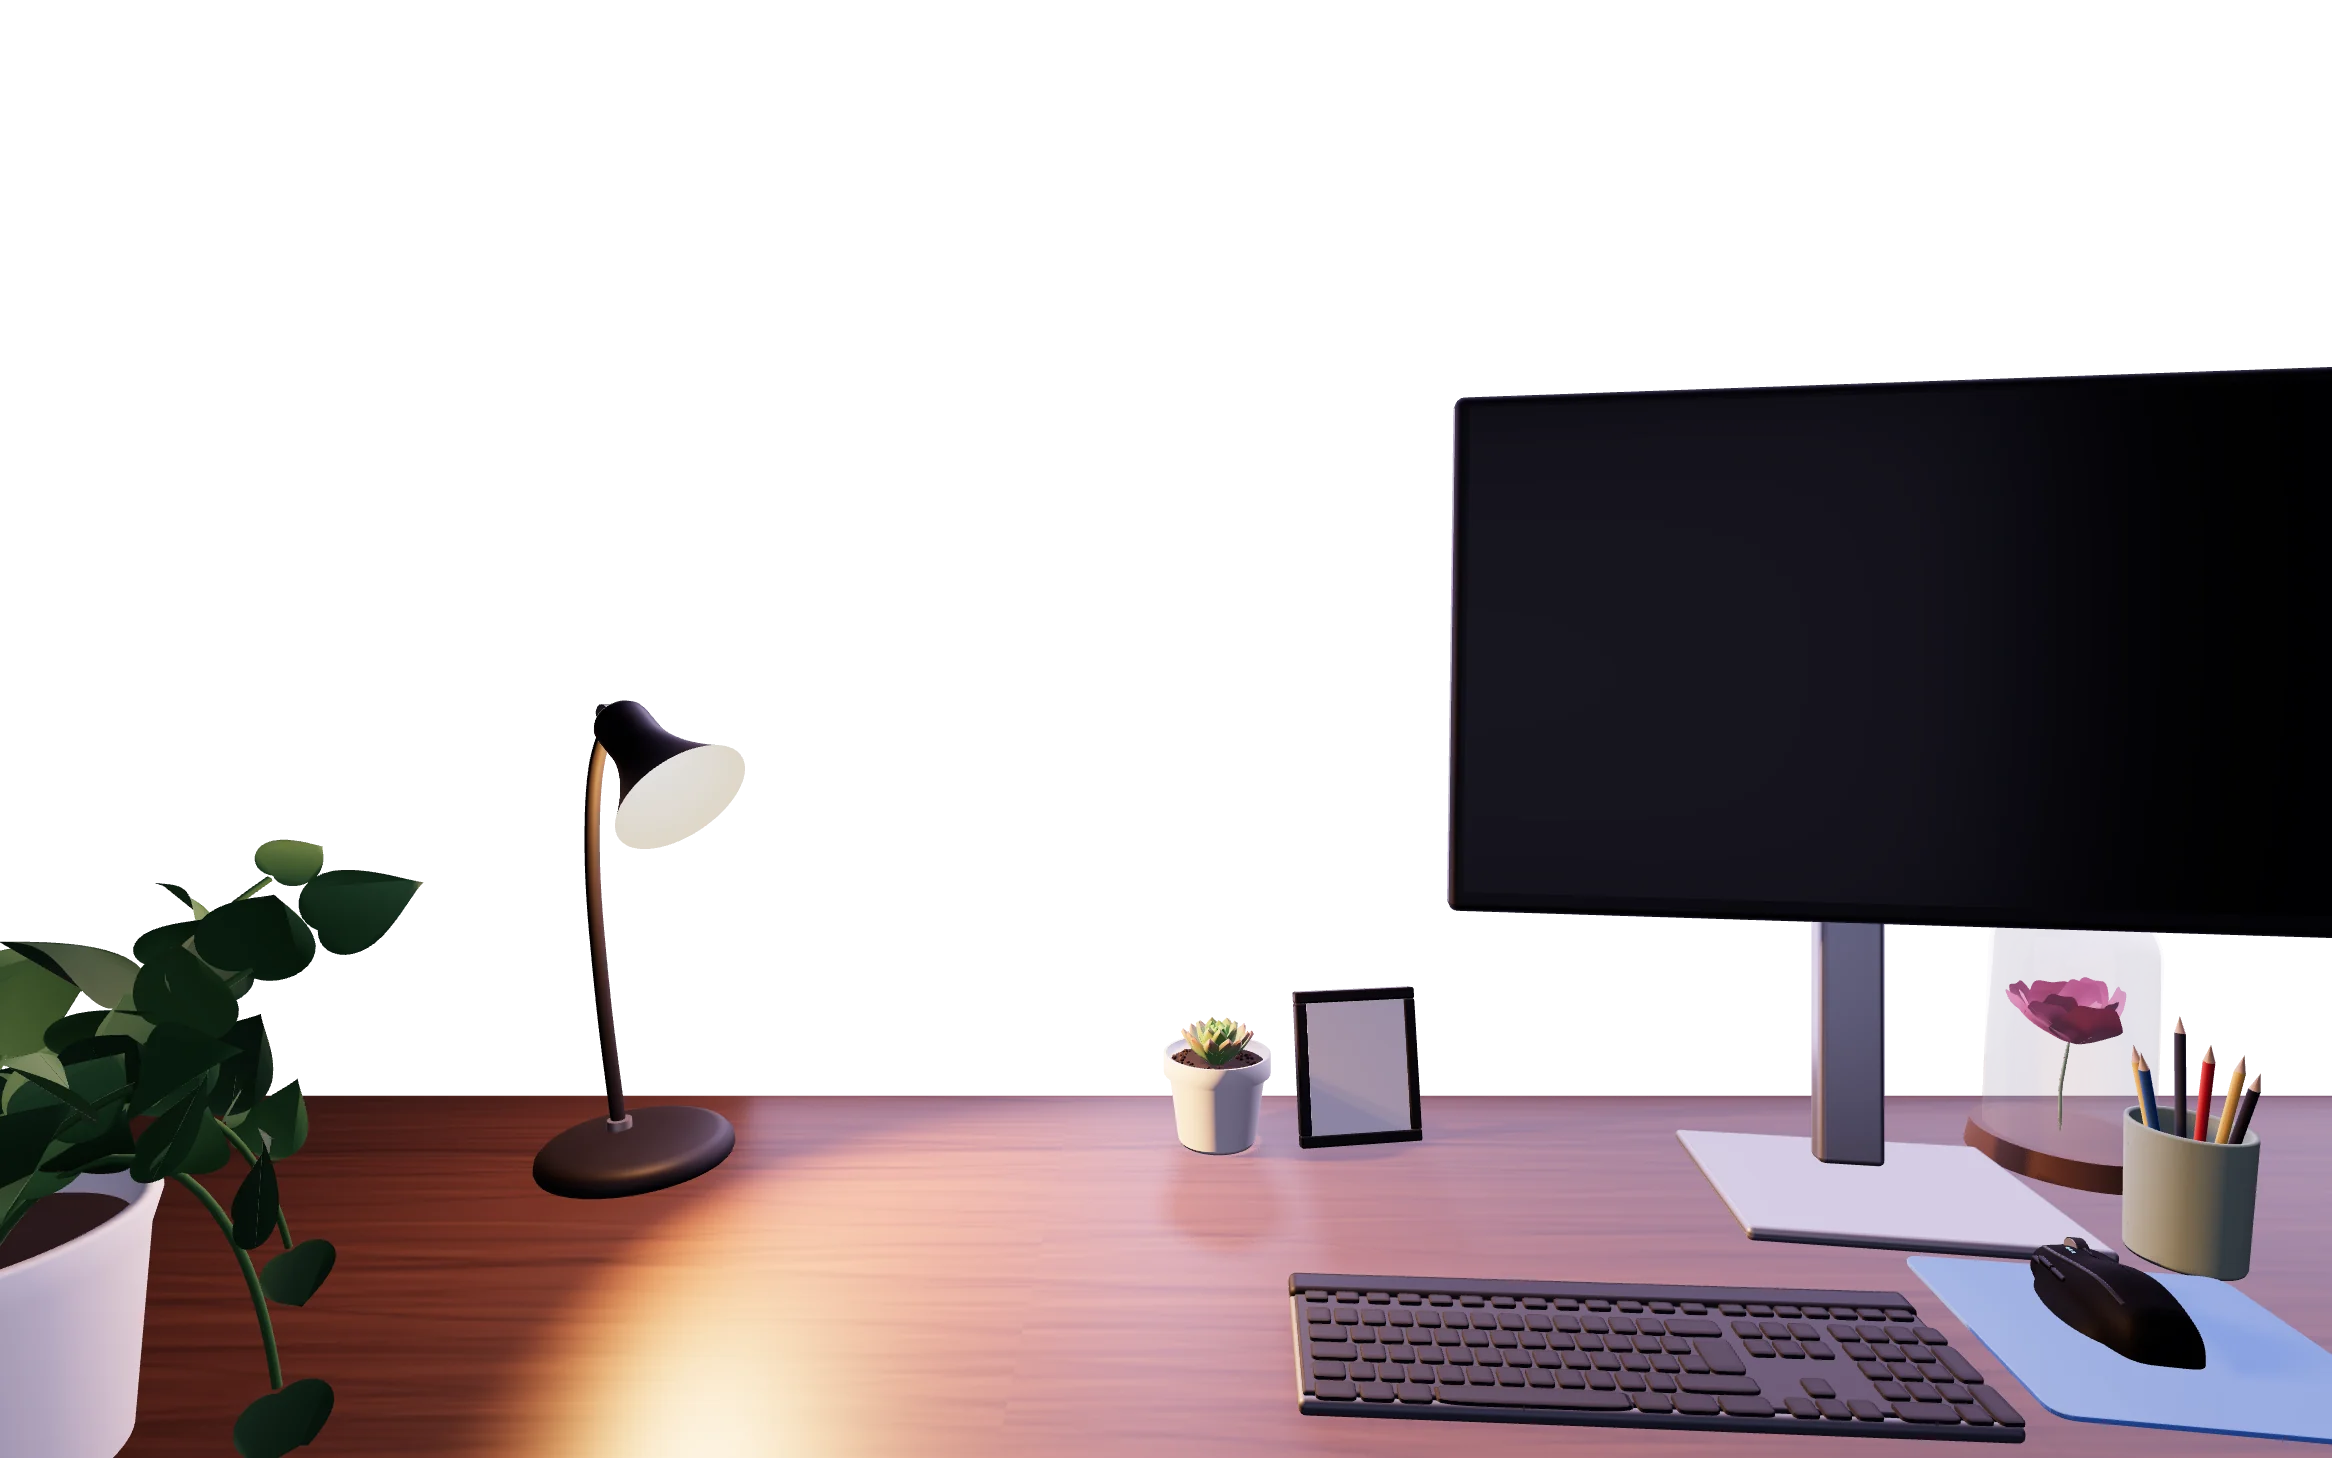
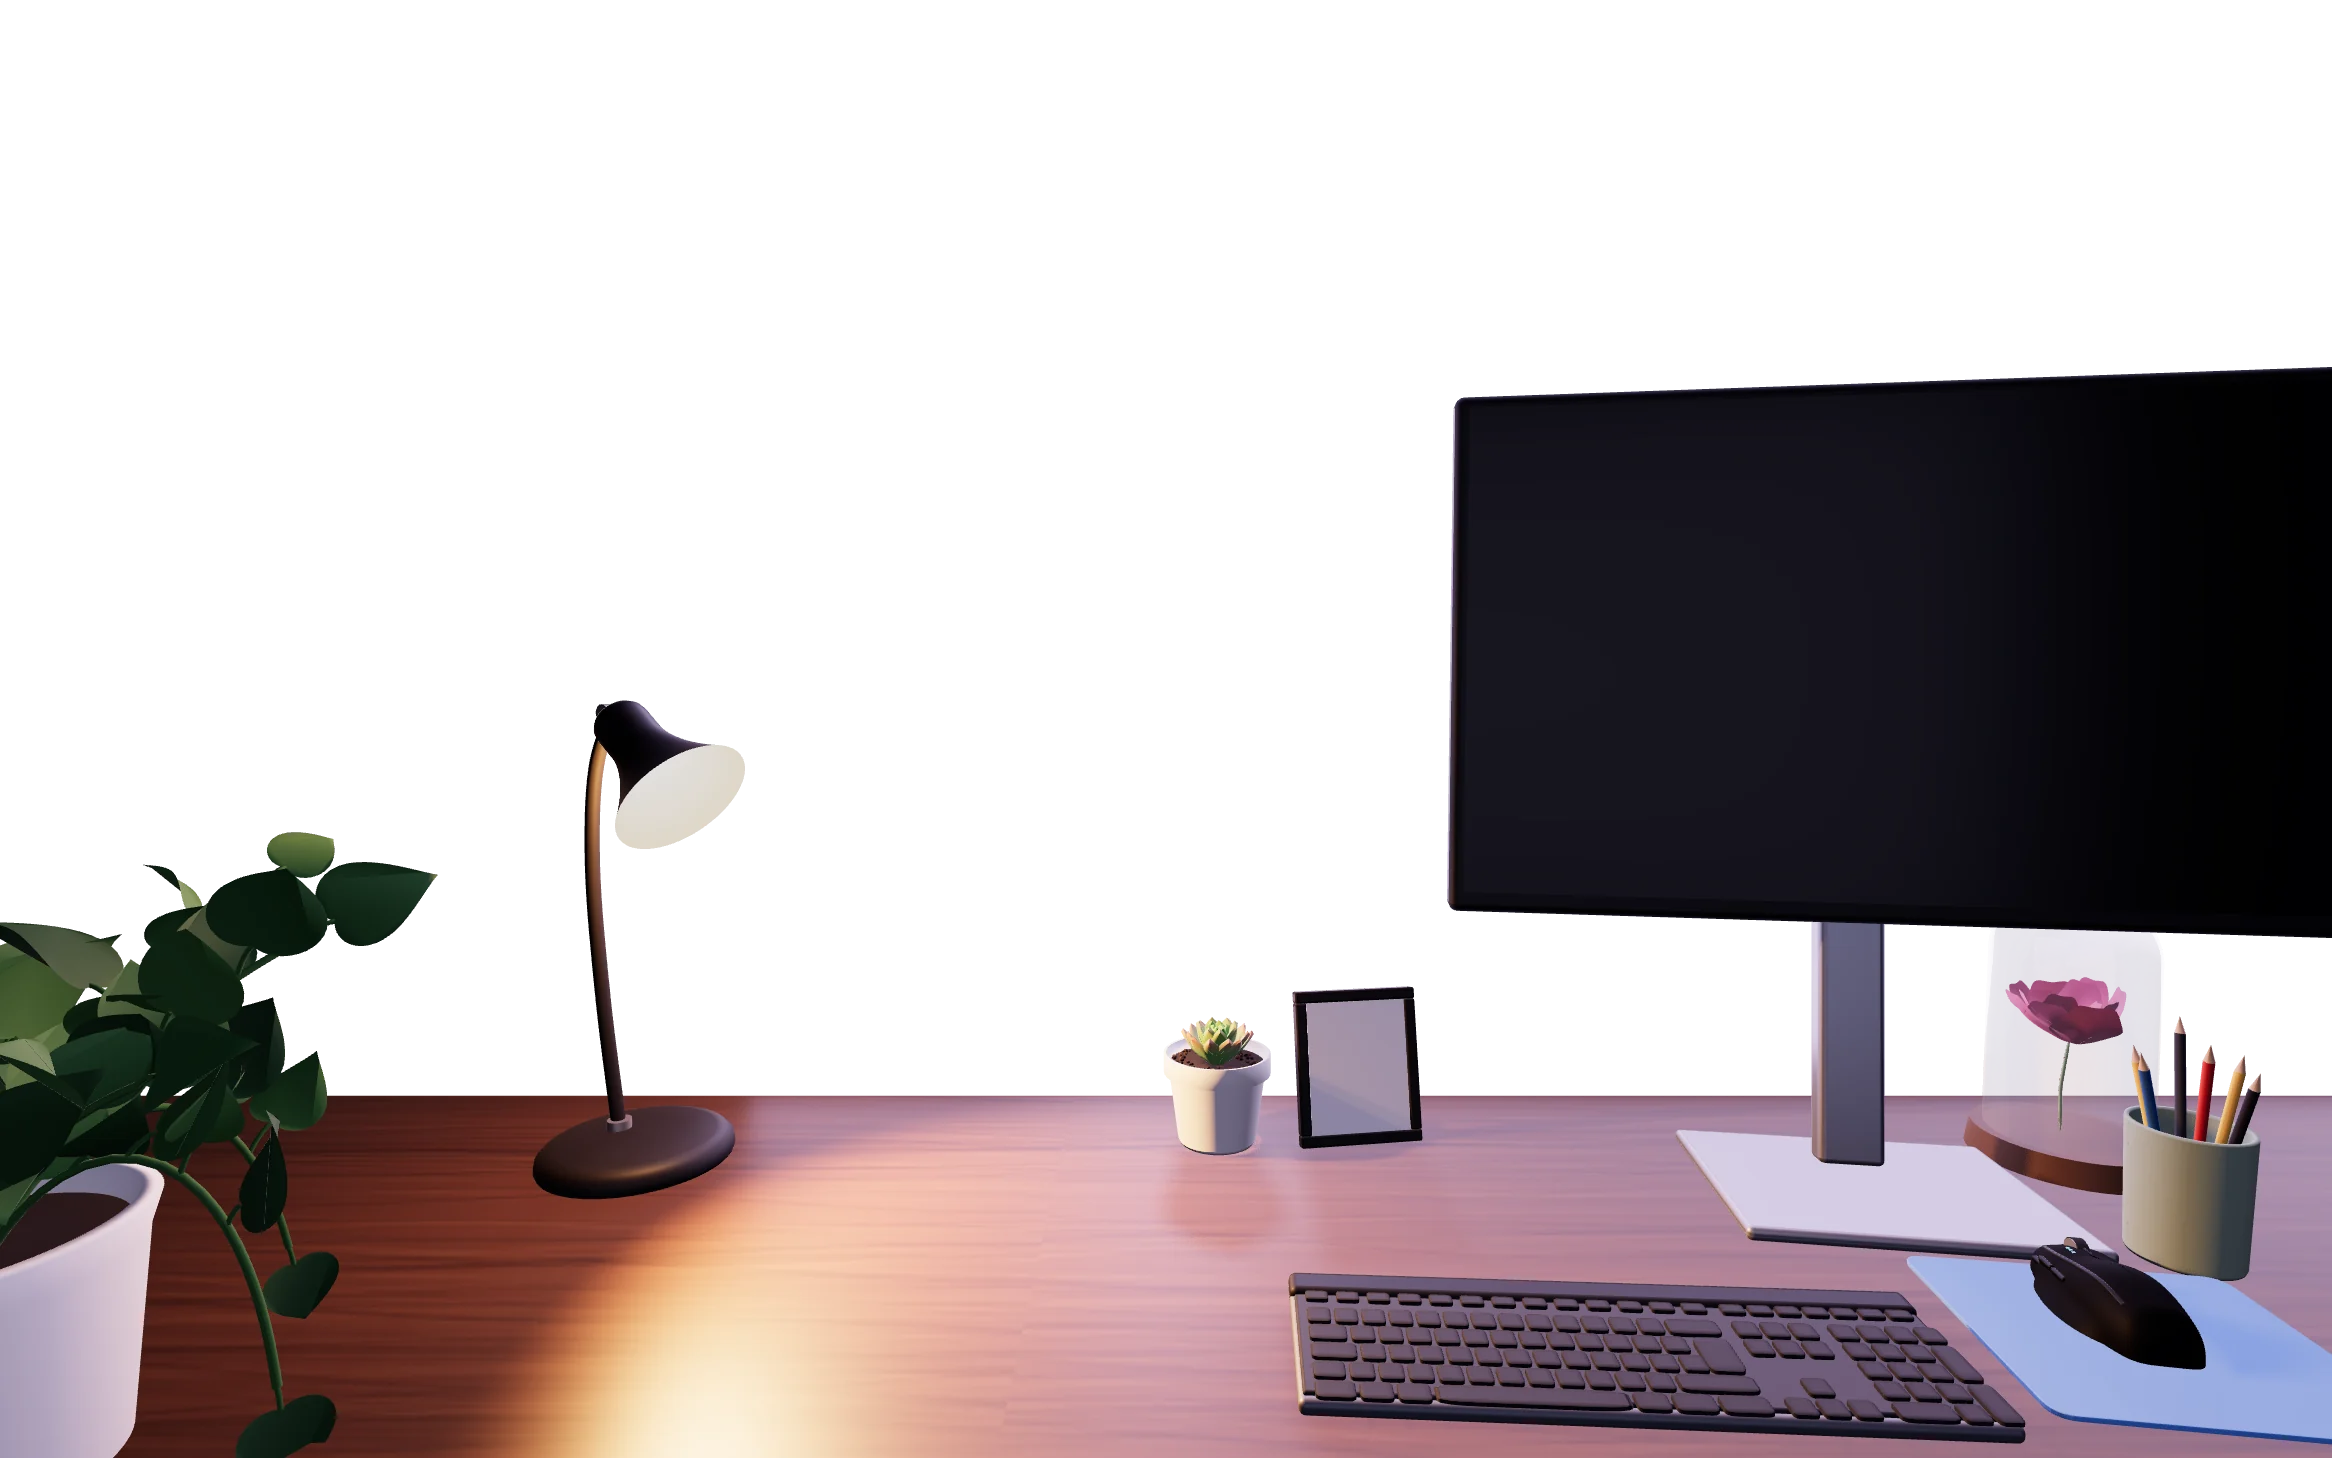
🐛 fix(office): hang the plant's leaves on short stalks so they meet their stems

Changed region(s): [[0.0, 0.5556, 0.1852, 0.8951], [0.0926, 0.9259, 0.1544, 0.9877]]

diff --git a/src/scene/office/objects.ts b/src/scene/office/objects.ts
@@ -541,10 +541,27 @@ function buildPlant(): Group {
       }
     }
     if (!tipLeaf) continue;
+    // Each leaf hangs from the stem on a short stalk, bent outward, from the stem to the notch at its base: laid
+    // straight on the stem, a leaf turned away showed no join and seemed to float.
+    const stalk = (from: Vector3, leaf: Mesh, kind: number): void => {
+      const [len] = leafSizes[kind] ?? [0, 0];
+      leaf.updateMatrix();
+      const base = v3(0, len * 0.06, len * 0.025).applyMatrix4(leaf.matrix);
+      const mid = from
+        .clone()
+        .lerp(base, 0.5)
+        .addScaledVector(v3(0, 1, 0), base.distanceTo(from) * 0.25);
+      g.add(new Mesh(new TubeGeometry(new QuadraticBezierCurve3(from, mid, base), 6, 0.0016, 5, false), stemMat));
+    };
+    const reachOut = (leaf: Mesh, by: number): void => {
+      leaf.position.addScaledVector(v3(0, 1, 0).applyQuaternion(leaf.quaternion), by);
+    };
     const stem: Vector3[] = [];
     for (let i = 0; i <= 20; i += 1) stem.push(curve.getPoint((i / 20) * tip));
     g.add(new Mesh(new TubeGeometry(new CatmullRomCurve3(stem), 20, 0.0025, 6, false), stemMat));
+    reachOut(tipLeaf, 0.01);
     g.add(tipLeaf);
+    stalk(curve.getPoint(tip), tipLeaf, v % 3);
     const n = 4 + Math.floor(r() * 3);
     for (let k = 0; k < n; k += 1) {
       const t = (0.25 + (k / n) * 0.65) * tip;
@@ -558,7 +575,11 @@ function buildPlant(): Group {
       const yaw = Math.atan2(out.x, out.z) + side * (0.6 + r() * 0.5);
       leaf.rotation.set(-0.9 + r() * 0.7 + (trailing ? 0.9 : 0), yaw, side * (0.3 + r() * 0.3), 'YXZ');
       leaf.scale.setScalar(0.8 + r() * 0.5);
-      if (fits(leaf, kind)) g.add(leaf);
+      reachOut(leaf, 0.012 + (k % 3) * 0.004);
+      if (fits(leaf, kind)) {
+        g.add(leaf);
+        stalk(p, leaf, kind);
+      }
     }
   }
   return g;

diff --git a/docs/prototypes/bureau/scene.js b/docs/prototypes/bureau/scene.js
@@ -597,10 +597,24 @@ function buildPlant() {
       }
     }
     if (!tipLeaf) continue;
+    // Each leaf hangs from the stem on a short stalk, bent outward, from the stem to the notch at its base: laid
+    // straight on the stem, a leaf turned away showed no join and seemed to float.
+    const stalk = (from, leaf, kind) => {
+      const [len] = leafSizes[kind];
+      leaf.updateMatrix();
+      const base = new THREE.Vector3(0, len * 0.06, len * 0.025).applyMatrix4(leaf.matrix);
+      const mid = from.clone().lerp(base, 0.5).addScaledVector(new THREE.Vector3(0, 1, 0), base.distanceTo(from) * 0.25);
+      g.add(new THREE.Mesh(new THREE.TubeGeometry(new THREE.QuadraticBezierCurve3(from, mid, base), 6, 0.0016, 5, false), stemMat));
+    };
+    const reachOut = (leaf, by) => {
+      leaf.position.addScaledVector(new THREE.Vector3(0, 1, 0).applyQuaternion(leaf.quaternion), by);
+    };
     const stemPts = [];
     for (let i = 0; i <= 20; i++) stemPts.push(curve.getPoint((i / 20) * tip));
     g.add(new THREE.Mesh(new THREE.TubeGeometry(new THREE.CatmullRomCurve3(stemPts), 20, 0.0025, 6, false), stemMat));
+    reachOut(tipLeaf, 0.01);
     g.add(tipLeaf);
+    stalk(curve.getPoint(tip), tipLeaf, v % 3);
     const n = 4 + Math.floor(r() * 3);
     for (let k = 0; k < n; k++) {
       const t = (0.25 + (k / n) * 0.65) * tip;
@@ -614,7 +628,11 @@ function buildPlant() {
       const yaw = Math.atan2(out.x, out.z) + side * (0.6 + r() * 0.5);
       leaf.rotation.set(-0.9 + r() * 0.7 + (trailing ? 0.9 : 0), yaw, side * (0.3 + r() * 0.3), 'YXZ');
       leaf.scale.setScalar(0.8 + r() * 0.5);
-      if (fits(leaf, kind)) g.add(leaf);
+      reachOut(leaf, 0.012 + (k % 3) * 0.004);
+      if (fits(leaf, kind)) {
+        g.add(leaf);
+        stalk(p, leaf, kind);
+      }
     }
   }
   return g;
